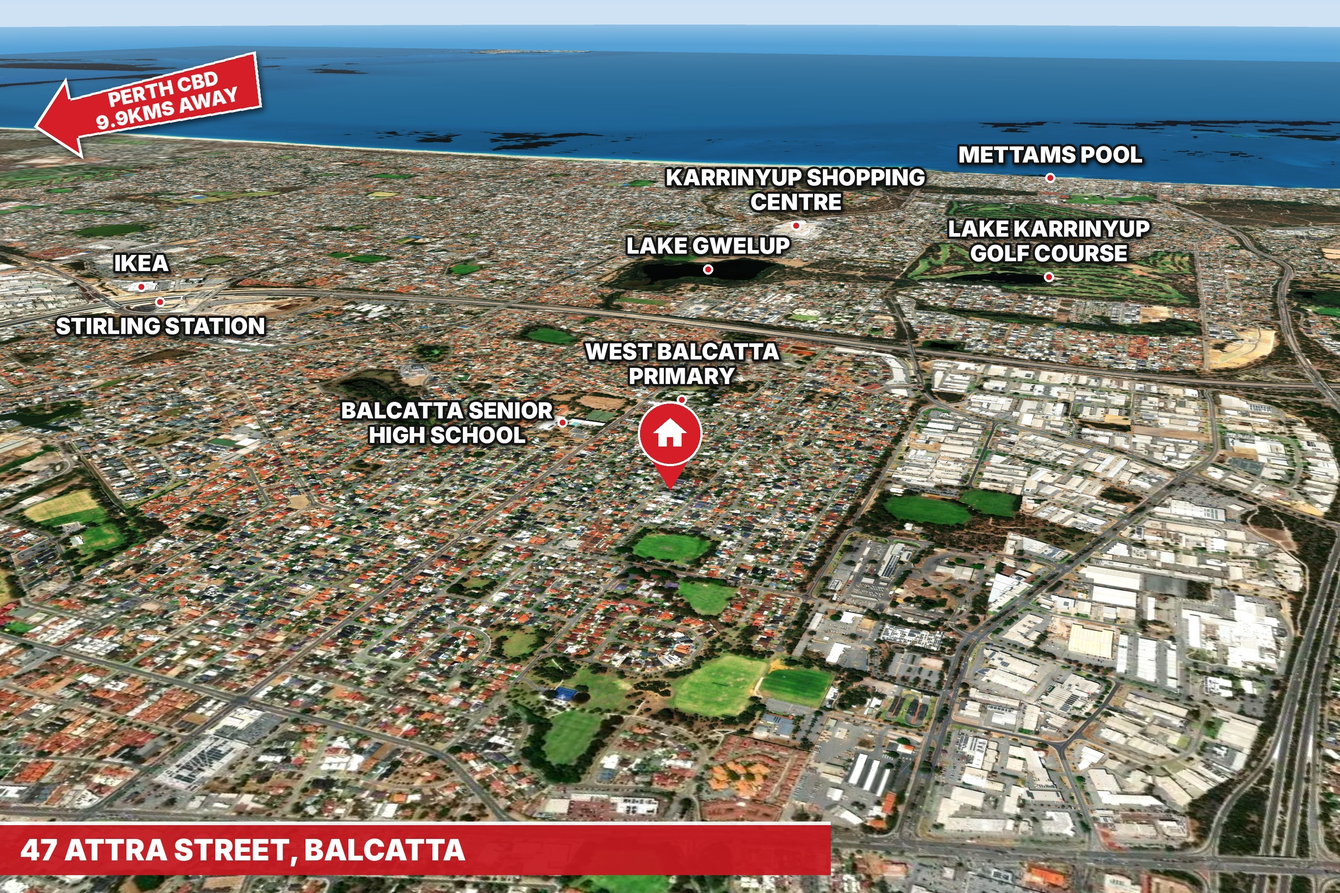
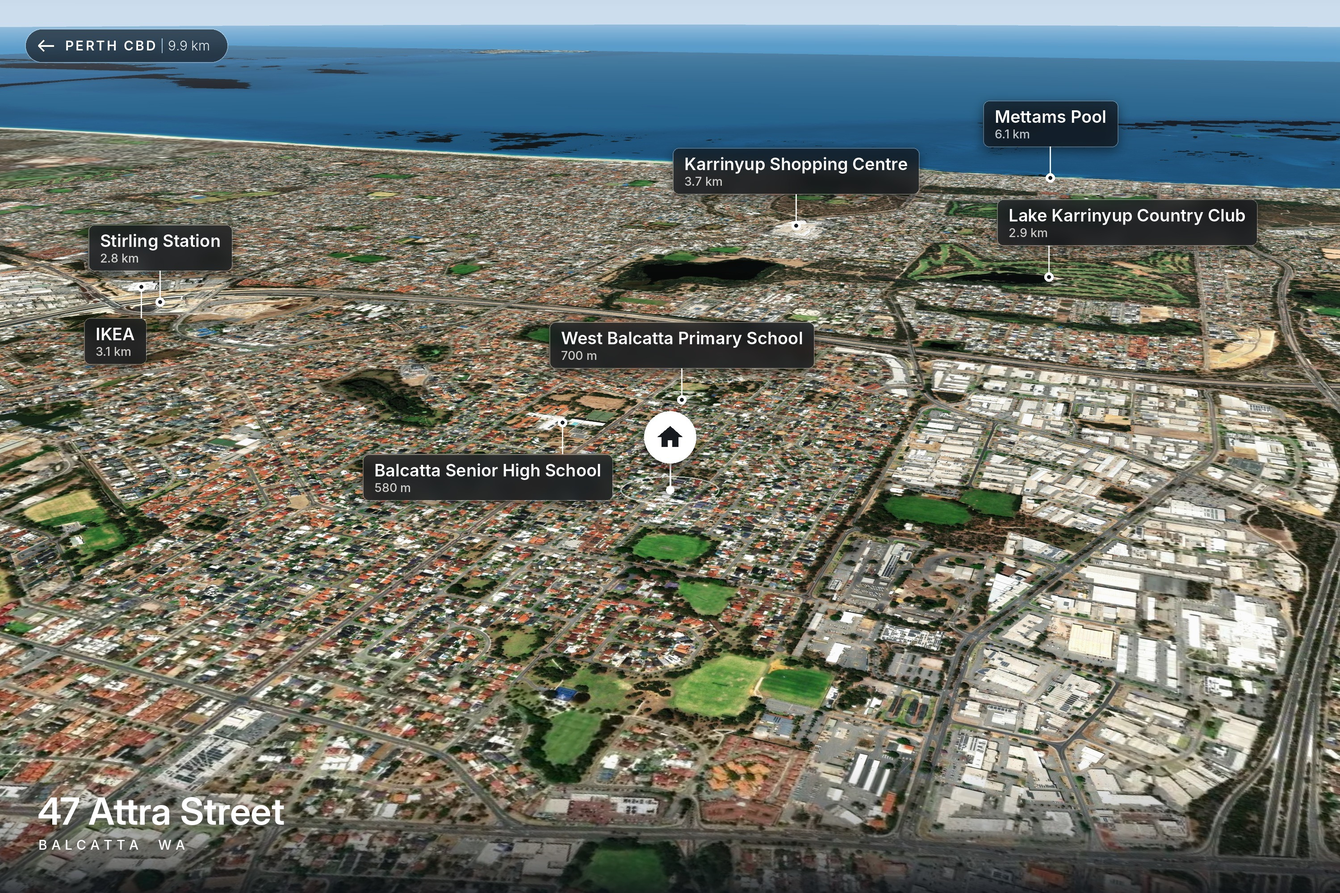
47 Attra St location map: cleaner style (frosted labels with distances, slim pin, refined address)
Claude-Session: https://claude.ai/code/session_01A5qGg2LnJXxgSHoMQFvEEG

diff --git a/aerials/27-oct-2026/index.html b/aerials/27-oct-2026/index.html
@@ -5,4 +5,4 @@ body{margin:0;background:var(--bg);color:var(--fg);font:15px/1.45 system-ui,-app
 header,section{max-width:1400px;margin:auto;padding:18px 16px}h1{font-size:20px;margin:0}h2{font-size:17px;margin:0}header p,section p{color:var(--mut);margin:4px 0 0}
 .ed{margin-left:10px;color:var(--acc);font-weight:600;text-decoration:none}a{color:var(--acc)}
 .chk{margin-top:10px}.chk summary{cursor:pointer;color:var(--mut);font-weight:600}.chk iframe{width:100%;height:420px;border:0;border-radius:6px;margin-top:6px;background:#111}.g{display:grid;grid-template-columns:repeat(auto-fill,minmax(280px,1fr));gap:8px;margin-top:10px}.g img{width:100%;display:block;border-radius:4px}</style></head>
-<body><header><h1>Drone edits — Tue 27 Oct 2026</h1><p>Tap a photo for full size. <b>Edit</b> opens the job in the <a href="/pins/">editor</a> with all its pins and settings.</p></header><section><h2>218 North Beach Dr, Tuart Hill</h2><p>Stephanie Briers · Professionals · 13 photos <a class="ed" href="/pins/?open=27-oct-2026/218_north_beach_dr">Edit</a></p><div class="g"><a href="218_north_beach_dr/dji_fly_20261027_150818_0904_1793084705926_photo.jpg?v=1793133531" target="_blank"><img loading="lazy" src="218_north_beach_dr/t/dji_fly_20261027_150818_0904_1793084705926_photo.jpg?v=1793133531" alt=""></a><a href="218_north_beach_dr/dji_fly_20261027_150852_0906_1793084703012_photo.jpg?v=1793133531" target="_blank"><img loading="lazy" src="218_north_beach_dr/t/dji_fly_20261027_150852_0906_1793084703012_photo.jpg?v=1793133531" alt=""></a><a href="218_north_beach_dr/dji_fly_20261027_150910_0907_1793084701634_photo.jpg?v=1793133531" target="_blank"><img loading="lazy" src="218_north_beach_dr/t/dji_fly_20261027_150910_0907_1793084701634_photo.jpg?v=1793133531" alt=""></a><a href="218_north_beach_dr/dji_fly_20261027_150938_0908_1793084700212_photo.jpg?v=1793133531" target="_blank"><img loading="lazy" src="218_north_beach_dr/t/dji_fly_20261027_150938_0908_1793084700212_photo.jpg?v=1793133531" alt=""></a><a href="218_north_beach_dr/dji_fly_20261027_150948_0909_1793084698807_photo.jpg?v=1793133531" target="_blank"><img loading="lazy" src="218_north_beach_dr/t/dji_fly_20261027_150948_0909_1793084698807_photo.jpg?v=1793133531" alt=""></a><a href="218_north_beach_dr/dji_fly_20261027_151000_0910_1793084697396_photo.jpg?v=1793133531" target="_blank"><img loading="lazy" src="218_north_beach_dr/t/dji_fly_20261027_151000_0910_1793084697396_photo.jpg?v=1793133531" alt=""></a><a href="218_north_beach_dr/dji_fly_20261027_151032_0911_1793084695909_photo.jpg?v=1793133531" target="_blank"><img loading="lazy" src="218_north_beach_dr/t/dji_fly_20261027_151032_0911_1793084695909_photo.jpg?v=1793133531" alt=""></a><a href="218_north_beach_dr/dji_fly_20261027_151100_0912_1793084694451_photo.jpg?v=1793133531" target="_blank"><img loading="lazy" src="218_north_beach_dr/t/dji_fly_20261027_151100_0912_1793084694451_photo.jpg?v=1793133531" alt=""></a><a href="218_north_beach_dr/dji_fly_20261027_151114_0913_1793084693051_photo.jpg?v=1793133531" target="_blank"><img loading="lazy" src="218_north_beach_dr/t/dji_fly_20261027_151114_0913_1793084693051_photo.jpg?v=1793133531" alt=""></a><a href="218_north_beach_dr/dji_fly_20261027_151128_0914_1793084691646_photo.jpg?v=1793133531" target="_blank"><img loading="lazy" src="218_north_beach_dr/t/dji_fly_20261027_151128_0914_1793084691646_photo.jpg?v=1793133531" alt=""></a><a href="218_north_beach_dr/dji_fly_20261027_151138_0915_1793084690227_photo.jpg?v=1793133531" target="_blank"><img loading="lazy" src="218_north_beach_dr/t/dji_fly_20261027_151138_0915_1793084690227_photo.jpg?v=1793133531" alt=""></a><a href="218_north_beach_dr/dji_fly_20261027_151152_0916_1793084688823_photo.jpg?v=1793133531" target="_blank"><img loading="lazy" src="218_north_beach_dr/t/dji_fly_20261027_151152_0916_1793084688823_photo.jpg?v=1793133531" alt=""></a><a href="218_north_beach_dr/dji_fly_20261027_151200_0917_1793084687391_photo.jpg?v=1793133531" target="_blank"><img loading="lazy" src="218_north_beach_dr/t/dji_fly_20261027_151200_0917_1793084687391_photo.jpg?v=1793133531" alt=""></a></div></section><section><h2>41 St Kilda Rd, Balga</h2><p>Emma Scharf · Professionals · 9 photos <a class="ed" href="/pins/?open=27-oct-2026/41_st_kilda_rd">Edit</a></p><div class="g"><a href="41_st_kilda_rd/dji_fly_20261027_120152_0892_1793084725908_photo.jpg?v=1793133538" target="_blank"><img loading="lazy" src="41_st_kilda_rd/t/dji_fly_20261027_120152_0892_1793084725908_photo.jpg?v=1793133538" alt=""></a><a href="41_st_kilda_rd/dji_fly_20261027_120208_0893_1793084724563_photo.jpg?v=1793133538" target="_blank"><img loading="lazy" src="41_st_kilda_rd/t/dji_fly_20261027_120208_0893_1793084724563_photo.jpg?v=1793133538" alt=""></a><a href="41_st_kilda_rd/dji_fly_20261027_120238_0894_1793084723192_photo.jpg?v=1793133538" target="_blank"><img loading="lazy" src="41_st_kilda_rd/t/dji_fly_20261027_120238_0894_1793084723192_photo.jpg?v=1793133538" alt=""></a><a href="41_st_kilda_rd/dji_fly_20261027_120258_0895_1793084721818_photo.jpg?v=1793133538" target="_blank"><img loading="lazy" src="41_st_kilda_rd/t/dji_fly_20261027_120258_0895_1793084721818_photo.jpg?v=1793133538" alt=""></a><a href="41_st_kilda_rd/dji_fly_20261027_120318_0896_1793084720496_photo.jpg?v=1793133538" target="_blank"><img loading="lazy" src="41_st_kilda_rd/t/dji_fly_20261027_120318_0896_1793084720496_photo.jpg?v=1793133538" alt=""></a><a href="41_st_kilda_rd/dji_fly_20261027_120334_0897_1793084719060_photo.jpg?v=1793133538" target="_blank"><img loading="lazy" src="41_st_kilda_rd/t/dji_fly_20261027_120334_0897_1793084719060_photo.jpg?v=1793133538" alt=""></a><a href="41_st_kilda_rd/dji_fly_20261027_120400_0898_1793084717514_photo.jpg?v=1793133538" target="_blank"><img loading="lazy" src="41_st_kilda_rd/t/dji_fly_20261027_120400_0898_1793084717514_photo.jpg?v=1793133538" alt=""></a><a href="41_st_kilda_rd/dji_fly_20261027_120412_0899_1793084715431_photo.jpg?v=1793133538" target="_blank"><img loading="lazy" src="41_st_kilda_rd/t/dji_fly_20261027_120412_0899_1793084715431_photo.jpg?v=1793133538" alt=""></a><a href="41_st_kilda_rd/dji_fly_20261027_123924_0900_1793084713356_photo.jpg?v=1793133538" target="_blank"><img loading="lazy" src="41_st_kilda_rd/t/dji_fly_20261027_123924_0900_1793084713356_photo.jpg?v=1793133538" alt=""></a></div></section><section><h2>4/17 Forest Hill Dr, Kingsley</h2><p>James Kennedy · Professionals Kingsley · 8 photos <a class="ed" href="/pins/?open=27-oct-2026/4_17_forest_hill_dr">Edit</a><a class="ed" href="4_17_forest_hill_dr/check.html" target="_blank">Check map</a></p><div class="g"><a href="4_17_forest_hill_dr/DJI_20261027190736_0143_D.jpg?v=1793228198" target="_blank"><img loading="lazy" src="4_17_forest_hill_dr/t/DJI_20261027190736_0143_D.jpg?v=1793228198" alt=""></a><a href="4_17_forest_hill_dr/DJI_20261027190751_0144_D.jpg?v=1793228198" target="_blank"><img loading="lazy" src="4_17_forest_hill_dr/t/DJI_20261027190751_0144_D.jpg?v=1793228198" alt=""></a><a href="4_17_forest_hill_dr/DJI_20261027190811_0145_D.jpg?v=1793228198" target="_blank"><img loading="lazy" src="4_17_forest_hill_dr/t/DJI_20261027190811_0145_D.jpg?v=1793228198" alt=""></a><a href="4_17_forest_hill_dr/DJI_20261027190831_0146_D.jpg?v=1793228198" target="_blank"><img loading="lazy" src="4_17_forest_hill_dr/t/DJI_20261027190831_0146_D.jpg?v=1793228198" alt=""></a><a href="4_17_forest_hill_dr/DJI_20261027190850_0147_D.jpg?v=1793228199" target="_blank"><img loading="lazy" src="4_17_forest_hill_dr/t/DJI_20261027190850_0147_D.jpg?v=1793228199" alt=""></a><a href="4_17_forest_hill_dr/DJI_20261027190910_0148_D.jpg?v=1793228199" target="_blank"><img loading="lazy" src="4_17_forest_hill_dr/t/DJI_20261027190910_0148_D.jpg?v=1793228199" alt=""></a><a href="4_17_forest_hill_dr/DJI_20261027190924_0149_D.jpg?v=1793228199" target="_blank"><img loading="lazy" src="4_17_forest_hill_dr/t/DJI_20261027190924_0149_D.jpg?v=1793228199" alt=""></a><a href="4_17_forest_hill_dr/DJI_20261027190945_0150_D.jpg?v=1793228199" target="_blank"><img loading="lazy" src="4_17_forest_hill_dr/t/DJI_20261027190945_0150_D.jpg?v=1793228199" alt=""></a></div><details class="chk" open><summary>Quick check — boundary + 19 pinned places</summary><iframe loading="lazy" src="4_17_forest_hill_dr/check.html?v=1793228201" title="Boundary and places check"></iframe></details></section><section><h2>209 Barridale Dr, Kingsley</h2><p>James Kennedy · Professionals Kingsley · 6 photos (top-down first) <a class="ed" href="/pins/?open=27-oct-2026/209_barridale_dr">Edit</a><a class="ed" href="209_barridale_dr/check.html" target="_blank">Check map</a></p><div class="g"><a href="209_barridale_dr/DJI_20261027164443_0137_D.jpg?v=1793228218" target="_blank"><img loading="lazy" src="209_barridale_dr/t/DJI_20261027164443_0137_D.jpg?v=1793228218" alt=""></a><a href="209_barridale_dr/DJI_20261027164541_0138_D.jpg?v=1793228219" target="_blank"><img loading="lazy" src="209_barridale_dr/t/DJI_20261027164541_0138_D.jpg?v=1793228219" alt=""></a><a href="209_barridale_dr/DJI_20261027164558_0139_D.jpg?v=1793228219" target="_blank"><img loading="lazy" src="209_barridale_dr/t/DJI_20261027164558_0139_D.jpg?v=1793228219" alt=""></a><a href="209_barridale_dr/DJI_20261027164625_0140_D.jpg?v=1793228219" target="_blank"><img loading="lazy" src="209_barridale_dr/t/DJI_20261027164625_0140_D.jpg?v=1793228219" alt=""></a><a href="209_barridale_dr/DJI_20261027164659_0141_D.jpg?v=1793228220" target="_blank"><img loading="lazy" src="209_barridale_dr/t/DJI_20261027164659_0141_D.jpg?v=1793228220" alt=""></a><a href="209_barridale_dr/DJI_20261027164724_0142_D.jpg?v=1793228220" target="_blank"><img loading="lazy" src="209_barridale_dr/t/DJI_20261027164724_0142_D.jpg?v=1793228220" alt=""></a></div><details class="chk" open><summary>Quick check — boundary + 14 pinned places</summary><iframe loading="lazy" src="209_barridale_dr/check.html?v=1793228221" title="Boundary and places check"></iframe></details></section><section><h2>47 Attra St, Balcatta</h2><p>Jenny Fry · City to Surf · 6 photos (top-downs first) <a class="ed" href="/pins/?open=27-oct-2026/47_attra_st">Edit</a><a class="ed" href="47_attra_st/check.html" target="_blank">Check map</a></p><div class="g"><a href="47_attra_st/DJI_20261027201407_0152_D.jpg?v=1793230412" target="_blank"><img loading="lazy" src="47_attra_st/t/DJI_20261027201407_0152_D.jpg?v=1793230412" alt=""></a><a href="47_attra_st/DJI_20261027201357_0151_D.jpg?v=1793230412" target="_blank"><img loading="lazy" src="47_attra_st/t/DJI_20261027201357_0151_D.jpg?v=1793230412" alt=""></a><a href="47_attra_st/DJI_20261027201444_0154_D.jpg?v=1793230412" target="_blank"><img loading="lazy" src="47_attra_st/t/DJI_20261027201444_0154_D.jpg?v=1793230412" alt=""></a><a href="47_attra_st/DJI_20261027201539_0158_D.jpg?v=1793230412" target="_blank"><img loading="lazy" src="47_attra_st/t/DJI_20261027201539_0158_D.jpg?v=1793230412" alt=""></a><a href="47_attra_st/DJI_20261027201608_0160_D.jpg?v=1793230412" target="_blank"><img loading="lazy" src="47_attra_st/t/DJI_20261027201608_0160_D.jpg?v=1793230412" alt=""></a><a href="47_attra_st/satellite_map.jpg?v=1793230412" target="_blank"><img loading="lazy" src="47_attra_st/t/satellite_map.jpg?v=1793230412" alt=""></a><a href="47_attra_st/location_map.jpg?v=1793232755" target="_blank"><img loading="lazy" src="47_attra_st/t/location_map.jpg?v=1793232755" alt=""></a></div><details class="chk" open><summary>Quick check — boundary + 15 pinned places</summary><iframe loading="lazy" src="47_attra_st/check.html?v=1793230413" title="Boundary and places check"></iframe></details></section><section><h2>18 Wonderboom Way, Forrestfield</h2><p>David Huynh · Harcourts · 9 photos (top-downs first) <a class="ed" href="/pins/?open=27-oct-2026/18_wonderboom_way">Edit</a><a class="ed" href="18_wonderboom_way/check.html" target="_blank">Check map</a></p><div class="g"><a href="18_wonderboom_way/DJI_20261027153704_0025_D.jpg?v=1793230668" target="_blank"><img loading="lazy" src="18_wonderboom_way/t/DJI_20261027153704_0025_D.jpg?v=1793230668" alt=""></a><a href="18_wonderboom_way/DJI_20261027153655_0024_D.jpg?v=1793230668" target="_blank"><img loading="lazy" src="18_wonderboom_way/t/DJI_20261027153655_0024_D.jpg?v=1793230668" alt=""></a><a href="18_wonderboom_way/DJI_20261027153728_0026_D.jpg?v=1793230668" target="_blank"><img loading="lazy" src="18_wonderboom_way/t/DJI_20261027153728_0026_D.jpg?v=1793230668" alt=""></a><a href="18_wonderboom_way/DJI_20261027153750_0027_D.jpg?v=1793230668" target="_blank"><img loading="lazy" src="18_wonderboom_way/t/DJI_20261027153750_0027_D.jpg?v=1793230668" alt=""></a><a href="18_wonderboom_way/DJI_20261027153805_0028_D.jpg?v=1793230668" target="_blank"><img loading="lazy" src="18_wonderboom_way/t/DJI_20261027153805_0028_D.jpg?v=1793230668" alt=""></a><a href="18_wonderboom_way/DJI_20261027153822_0029_D.jpg?v=1793230669" target="_blank"><img loading="lazy" src="18_wonderboom_way/t/DJI_20261027153822_0029_D.jpg?v=1793230669" alt=""></a><a href="18_wonderboom_way/DJI_20261027153841_0030_D.jpg?v=1793230669" target="_blank"><img loading="lazy" src="18_wonderboom_way/t/DJI_20261027153841_0030_D.jpg?v=1793230669" alt=""></a><a href="18_wonderboom_way/DJI_20261027153857_0031_D.jpg?v=1793230669" target="_blank"><img loading="lazy" src="18_wonderboom_way/t/DJI_20261027153857_0031_D.jpg?v=1793230669" alt=""></a><a href="18_wonderboom_way/DJI_20261027153910_0032_D.jpg?v=1793230669" target="_blank"><img loading="lazy" src="18_wonderboom_way/t/DJI_20261027153910_0032_D.jpg?v=1793230669" alt=""></a></div><details class="chk" open><summary>Quick check — boundary + 6 pinned places</summary><iframe loading="lazy" src="18_wonderboom_way/check.html?v=1793230670" title="Boundary and places check"></iframe></details></section></body></html>
+<body><header><h1>Drone edits — Tue 27 Oct 2026</h1><p>Tap a photo for full size. <b>Edit</b> opens the job in the <a href="/pins/">editor</a> with all its pins and settings.</p></header><section><h2>218 North Beach Dr, Tuart Hill</h2><p>Stephanie Briers · Professionals · 13 photos <a class="ed" href="/pins/?open=27-oct-2026/218_north_beach_dr">Edit</a></p><div class="g"><a href="218_north_beach_dr/dji_fly_20261027_150818_0904_1793084705926_photo.jpg?v=1793133531" target="_blank"><img loading="lazy" src="218_north_beach_dr/t/dji_fly_20261027_150818_0904_1793084705926_photo.jpg?v=1793133531" alt=""></a><a href="218_north_beach_dr/dji_fly_20261027_150852_0906_1793084703012_photo.jpg?v=1793133531" target="_blank"><img loading="lazy" src="218_north_beach_dr/t/dji_fly_20261027_150852_0906_1793084703012_photo.jpg?v=1793133531" alt=""></a><a href="218_north_beach_dr/dji_fly_20261027_150910_0907_1793084701634_photo.jpg?v=1793133531" target="_blank"><img loading="lazy" src="218_north_beach_dr/t/dji_fly_20261027_150910_0907_1793084701634_photo.jpg?v=1793133531" alt=""></a><a href="218_north_beach_dr/dji_fly_20261027_150938_0908_1793084700212_photo.jpg?v=1793133531" target="_blank"><img loading="lazy" src="218_north_beach_dr/t/dji_fly_20261027_150938_0908_1793084700212_photo.jpg?v=1793133531" alt=""></a><a href="218_north_beach_dr/dji_fly_20261027_150948_0909_1793084698807_photo.jpg?v=1793133531" target="_blank"><img loading="lazy" src="218_north_beach_dr/t/dji_fly_20261027_150948_0909_1793084698807_photo.jpg?v=1793133531" alt=""></a><a href="218_north_beach_dr/dji_fly_20261027_151000_0910_1793084697396_photo.jpg?v=1793133531" target="_blank"><img loading="lazy" src="218_north_beach_dr/t/dji_fly_20261027_151000_0910_1793084697396_photo.jpg?v=1793133531" alt=""></a><a href="218_north_beach_dr/dji_fly_20261027_151032_0911_1793084695909_photo.jpg?v=1793133531" target="_blank"><img loading="lazy" src="218_north_beach_dr/t/dji_fly_20261027_151032_0911_1793084695909_photo.jpg?v=1793133531" alt=""></a><a href="218_north_beach_dr/dji_fly_20261027_151100_0912_1793084694451_photo.jpg?v=1793133531" target="_blank"><img loading="lazy" src="218_north_beach_dr/t/dji_fly_20261027_151100_0912_1793084694451_photo.jpg?v=1793133531" alt=""></a><a href="218_north_beach_dr/dji_fly_20261027_151114_0913_1793084693051_photo.jpg?v=1793133531" target="_blank"><img loading="lazy" src="218_north_beach_dr/t/dji_fly_20261027_151114_0913_1793084693051_photo.jpg?v=1793133531" alt=""></a><a href="218_north_beach_dr/dji_fly_20261027_151128_0914_1793084691646_photo.jpg?v=1793133531" target="_blank"><img loading="lazy" src="218_north_beach_dr/t/dji_fly_20261027_151128_0914_1793084691646_photo.jpg?v=1793133531" alt=""></a><a href="218_north_beach_dr/dji_fly_20261027_151138_0915_1793084690227_photo.jpg?v=1793133531" target="_blank"><img loading="lazy" src="218_north_beach_dr/t/dji_fly_20261027_151138_0915_1793084690227_photo.jpg?v=1793133531" alt=""></a><a href="218_north_beach_dr/dji_fly_20261027_151152_0916_1793084688823_photo.jpg?v=1793133531" target="_blank"><img loading="lazy" src="218_north_beach_dr/t/dji_fly_20261027_151152_0916_1793084688823_photo.jpg?v=1793133531" alt=""></a><a href="218_north_beach_dr/dji_fly_20261027_151200_0917_1793084687391_photo.jpg?v=1793133531" target="_blank"><img loading="lazy" src="218_north_beach_dr/t/dji_fly_20261027_151200_0917_1793084687391_photo.jpg?v=1793133531" alt=""></a></div></section><section><h2>41 St Kilda Rd, Balga</h2><p>Emma Scharf · Professionals · 9 photos <a class="ed" href="/pins/?open=27-oct-2026/41_st_kilda_rd">Edit</a></p><div class="g"><a href="41_st_kilda_rd/dji_fly_20261027_120152_0892_1793084725908_photo.jpg?v=1793133538" target="_blank"><img loading="lazy" src="41_st_kilda_rd/t/dji_fly_20261027_120152_0892_1793084725908_photo.jpg?v=1793133538" alt=""></a><a href="41_st_kilda_rd/dji_fly_20261027_120208_0893_1793084724563_photo.jpg?v=1793133538" target="_blank"><img loading="lazy" src="41_st_kilda_rd/t/dji_fly_20261027_120208_0893_1793084724563_photo.jpg?v=1793133538" alt=""></a><a href="41_st_kilda_rd/dji_fly_20261027_120238_0894_1793084723192_photo.jpg?v=1793133538" target="_blank"><img loading="lazy" src="41_st_kilda_rd/t/dji_fly_20261027_120238_0894_1793084723192_photo.jpg?v=1793133538" alt=""></a><a href="41_st_kilda_rd/dji_fly_20261027_120258_0895_1793084721818_photo.jpg?v=1793133538" target="_blank"><img loading="lazy" src="41_st_kilda_rd/t/dji_fly_20261027_120258_0895_1793084721818_photo.jpg?v=1793133538" alt=""></a><a href="41_st_kilda_rd/dji_fly_20261027_120318_0896_1793084720496_photo.jpg?v=1793133538" target="_blank"><img loading="lazy" src="41_st_kilda_rd/t/dji_fly_20261027_120318_0896_1793084720496_photo.jpg?v=1793133538" alt=""></a><a href="41_st_kilda_rd/dji_fly_20261027_120334_0897_1793084719060_photo.jpg?v=1793133538" target="_blank"><img loading="lazy" src="41_st_kilda_rd/t/dji_fly_20261027_120334_0897_1793084719060_photo.jpg?v=1793133538" alt=""></a><a href="41_st_kilda_rd/dji_fly_20261027_120400_0898_1793084717514_photo.jpg?v=1793133538" target="_blank"><img loading="lazy" src="41_st_kilda_rd/t/dji_fly_20261027_120400_0898_1793084717514_photo.jpg?v=1793133538" alt=""></a><a href="41_st_kilda_rd/dji_fly_20261027_120412_0899_1793084715431_photo.jpg?v=1793133538" target="_blank"><img loading="lazy" src="41_st_kilda_rd/t/dji_fly_20261027_120412_0899_1793084715431_photo.jpg?v=1793133538" alt=""></a><a href="41_st_kilda_rd/dji_fly_20261027_123924_0900_1793084713356_photo.jpg?v=1793133538" target="_blank"><img loading="lazy" src="41_st_kilda_rd/t/dji_fly_20261027_123924_0900_1793084713356_photo.jpg?v=1793133538" alt=""></a></div></section><section><h2>4/17 Forest Hill Dr, Kingsley</h2><p>James Kennedy · Professionals Kingsley · 8 photos <a class="ed" href="/pins/?open=27-oct-2026/4_17_forest_hill_dr">Edit</a><a class="ed" href="4_17_forest_hill_dr/check.html" target="_blank">Check map</a></p><div class="g"><a href="4_17_forest_hill_dr/DJI_20261027190736_0143_D.jpg?v=1793228198" target="_blank"><img loading="lazy" src="4_17_forest_hill_dr/t/DJI_20261027190736_0143_D.jpg?v=1793228198" alt=""></a><a href="4_17_forest_hill_dr/DJI_20261027190751_0144_D.jpg?v=1793228198" target="_blank"><img loading="lazy" src="4_17_forest_hill_dr/t/DJI_20261027190751_0144_D.jpg?v=1793228198" alt=""></a><a href="4_17_forest_hill_dr/DJI_20261027190811_0145_D.jpg?v=1793228198" target="_blank"><img loading="lazy" src="4_17_forest_hill_dr/t/DJI_20261027190811_0145_D.jpg?v=1793228198" alt=""></a><a href="4_17_forest_hill_dr/DJI_20261027190831_0146_D.jpg?v=1793228198" target="_blank"><img loading="lazy" src="4_17_forest_hill_dr/t/DJI_20261027190831_0146_D.jpg?v=1793228198" alt=""></a><a href="4_17_forest_hill_dr/DJI_20261027190850_0147_D.jpg?v=1793228199" target="_blank"><img loading="lazy" src="4_17_forest_hill_dr/t/DJI_20261027190850_0147_D.jpg?v=1793228199" alt=""></a><a href="4_17_forest_hill_dr/DJI_20261027190910_0148_D.jpg?v=1793228199" target="_blank"><img loading="lazy" src="4_17_forest_hill_dr/t/DJI_20261027190910_0148_D.jpg?v=1793228199" alt=""></a><a href="4_17_forest_hill_dr/DJI_20261027190924_0149_D.jpg?v=1793228199" target="_blank"><img loading="lazy" src="4_17_forest_hill_dr/t/DJI_20261027190924_0149_D.jpg?v=1793228199" alt=""></a><a href="4_17_forest_hill_dr/DJI_20261027190945_0150_D.jpg?v=1793228199" target="_blank"><img loading="lazy" src="4_17_forest_hill_dr/t/DJI_20261027190945_0150_D.jpg?v=1793228199" alt=""></a></div><details class="chk" open><summary>Quick check — boundary + 19 pinned places</summary><iframe loading="lazy" src="4_17_forest_hill_dr/check.html?v=1793228201" title="Boundary and places check"></iframe></details></section><section><h2>209 Barridale Dr, Kingsley</h2><p>James Kennedy · Professionals Kingsley · 6 photos (top-down first) <a class="ed" href="/pins/?open=27-oct-2026/209_barridale_dr">Edit</a><a class="ed" href="209_barridale_dr/check.html" target="_blank">Check map</a></p><div class="g"><a href="209_barridale_dr/DJI_20261027164443_0137_D.jpg?v=1793228218" target="_blank"><img loading="lazy" src="209_barridale_dr/t/DJI_20261027164443_0137_D.jpg?v=1793228218" alt=""></a><a href="209_barridale_dr/DJI_20261027164541_0138_D.jpg?v=1793228219" target="_blank"><img loading="lazy" src="209_barridale_dr/t/DJI_20261027164541_0138_D.jpg?v=1793228219" alt=""></a><a href="209_barridale_dr/DJI_20261027164558_0139_D.jpg?v=1793228219" target="_blank"><img loading="lazy" src="209_barridale_dr/t/DJI_20261027164558_0139_D.jpg?v=1793228219" alt=""></a><a href="209_barridale_dr/DJI_20261027164625_0140_D.jpg?v=1793228219" target="_blank"><img loading="lazy" src="209_barridale_dr/t/DJI_20261027164625_0140_D.jpg?v=1793228219" alt=""></a><a href="209_barridale_dr/DJI_20261027164659_0141_D.jpg?v=1793228220" target="_blank"><img loading="lazy" src="209_barridale_dr/t/DJI_20261027164659_0141_D.jpg?v=1793228220" alt=""></a><a href="209_barridale_dr/DJI_20261027164724_0142_D.jpg?v=1793228220" target="_blank"><img loading="lazy" src="209_barridale_dr/t/DJI_20261027164724_0142_D.jpg?v=1793228220" alt=""></a></div><details class="chk" open><summary>Quick check — boundary + 14 pinned places</summary><iframe loading="lazy" src="209_barridale_dr/check.html?v=1793228221" title="Boundary and places check"></iframe></details></section><section><h2>47 Attra St, Balcatta</h2><p>Jenny Fry · City to Surf · 6 photos (top-downs first) <a class="ed" href="/pins/?open=27-oct-2026/47_attra_st">Edit</a><a class="ed" href="47_attra_st/check.html" target="_blank">Check map</a></p><div class="g"><a href="47_attra_st/DJI_20261027201407_0152_D.jpg?v=1793230412" target="_blank"><img loading="lazy" src="47_attra_st/t/DJI_20261027201407_0152_D.jpg?v=1793230412" alt=""></a><a href="47_attra_st/DJI_20261027201357_0151_D.jpg?v=1793230412" target="_blank"><img loading="lazy" src="47_attra_st/t/DJI_20261027201357_0151_D.jpg?v=1793230412" alt=""></a><a href="47_attra_st/DJI_20261027201444_0154_D.jpg?v=1793230412" target="_blank"><img loading="lazy" src="47_attra_st/t/DJI_20261027201444_0154_D.jpg?v=1793230412" alt=""></a><a href="47_attra_st/DJI_20261027201539_0158_D.jpg?v=1793230412" target="_blank"><img loading="lazy" src="47_attra_st/t/DJI_20261027201539_0158_D.jpg?v=1793230412" alt=""></a><a href="47_attra_st/DJI_20261027201608_0160_D.jpg?v=1793230412" target="_blank"><img loading="lazy" src="47_attra_st/t/DJI_20261027201608_0160_D.jpg?v=1793230412" alt=""></a><a href="47_attra_st/satellite_map.jpg?v=1793230412" target="_blank"><img loading="lazy" src="47_attra_st/t/satellite_map.jpg?v=1793230412" alt=""></a><a href="47_attra_st/location_map.jpg?v=1793232980" target="_blank"><img loading="lazy" src="47_attra_st/t/location_map.jpg?v=1793232980" alt=""></a></div><details class="chk" open><summary>Quick check — boundary + 15 pinned places</summary><iframe loading="lazy" src="47_attra_st/check.html?v=1793230413" title="Boundary and places check"></iframe></details></section><section><h2>18 Wonderboom Way, Forrestfield</h2><p>David Huynh · Harcourts · 9 photos (top-downs first) <a class="ed" href="/pins/?open=27-oct-2026/18_wonderboom_way">Edit</a><a class="ed" href="18_wonderboom_way/check.html" target="_blank">Check map</a></p><div class="g"><a href="18_wonderboom_way/DJI_20261027153704_0025_D.jpg?v=1793230668" target="_blank"><img loading="lazy" src="18_wonderboom_way/t/DJI_20261027153704_0025_D.jpg?v=1793230668" alt=""></a><a href="18_wonderboom_way/DJI_20261027153655_0024_D.jpg?v=1793230668" target="_blank"><img loading="lazy" src="18_wonderboom_way/t/DJI_20261027153655_0024_D.jpg?v=1793230668" alt=""></a><a href="18_wonderboom_way/DJI_20261027153728_0026_D.jpg?v=1793230668" target="_blank"><img loading="lazy" src="18_wonderboom_way/t/DJI_20261027153728_0026_D.jpg?v=1793230668" alt=""></a><a href="18_wonderboom_way/DJI_20261027153750_0027_D.jpg?v=1793230668" target="_blank"><img loading="lazy" src="18_wonderboom_way/t/DJI_20261027153750_0027_D.jpg?v=1793230668" alt=""></a><a href="18_wonderboom_way/DJI_20261027153805_0028_D.jpg?v=1793230668" target="_blank"><img loading="lazy" src="18_wonderboom_way/t/DJI_20261027153805_0028_D.jpg?v=1793230668" alt=""></a><a href="18_wonderboom_way/DJI_20261027153822_0029_D.jpg?v=1793230669" target="_blank"><img loading="lazy" src="18_wonderboom_way/t/DJI_20261027153822_0029_D.jpg?v=1793230669" alt=""></a><a href="18_wonderboom_way/DJI_20261027153841_0030_D.jpg?v=1793230669" target="_blank"><img loading="lazy" src="18_wonderboom_way/t/DJI_20261027153841_0030_D.jpg?v=1793230669" alt=""></a><a href="18_wonderboom_way/DJI_20261027153857_0031_D.jpg?v=1793230669" target="_blank"><img loading="lazy" src="18_wonderboom_way/t/DJI_20261027153857_0031_D.jpg?v=1793230669" alt=""></a><a href="18_wonderboom_way/DJI_20261027153910_0032_D.jpg?v=1793230669" target="_blank"><img loading="lazy" src="18_wonderboom_way/t/DJI_20261027153910_0032_D.jpg?v=1793230669" alt=""></a></div><details class="chk" open><summary>Quick check — boundary + 6 pinned places</summary><iframe loading="lazy" src="18_wonderboom_way/check.html?v=1793230670" title="Boundary and places check"></iframe></details></section></body></html>
